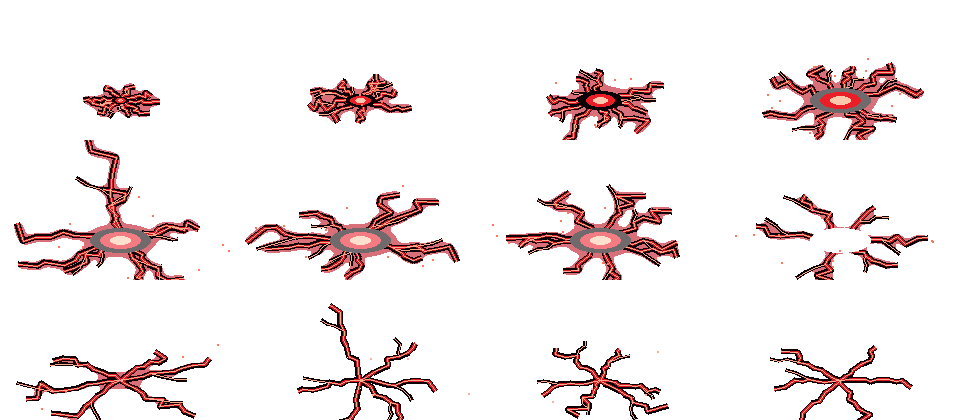
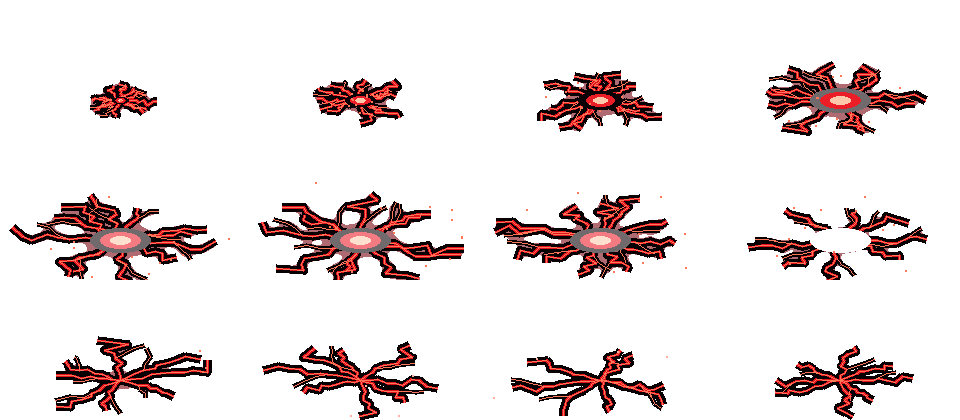
Sét cự kiếm tỏa phẳng đen đỏ; vành C theo góc đánh
Claude-Session: https://claude.ai/code/session_01MYwTvK6dULdzXHFPeBSgyd

diff --git a/game/index.html b/game/index.html
@@ -1912,14 +1912,14 @@ function startSwordCut(target,basic){
  P.swordCut={upgrade,angle,step,heavy,dir,lunge,delay,basic};
 }
 function comboFx(step,ang){/* VFX bản mẫu (PixelLab, gói tách lớp, tông trắng bạc - xanh ngọc). A, B nổ đúng khung trúng; C: lớp sau người + lớp trước người */
- if(!(P.kit&&P.kit.w==='kiem')||!vok('zs3'))return;const f=P.facing||1,sc=HERO.SC,an=HERO.meta.anims[['attack','attack2','attack3'][step]],at=(an&&an.dur?an.dur*an.hit:0.2);
+ if(!(P.kit&&P.kit.w==='kiem')||!vok('zs3'))return;const f=(ang!=null&&Math.abs(Math.cos(ang))>0.15)?(Math.cos(ang)>=0?1:-1):(P.facing||1)/* 24/11: hướng theo GÓC ĐÁNH, không theo P.facing cũ (mặt chưa kịp xoay khi mục tiêu ở phía đối diện) */,sc=HERO.SC,an=HERO.meta.anims[['attack','attack2','attack3'][step]],at=(an&&an.dur?an.dur*an.hit:0.2);
  const go=(k,T,gr,m,fd,o)=>fx(Object.assign({k:'sp',s:k,x:P.x,y:P.y,sc:sc*(m||1),fx:f,T,gr:gr?1:0,follow:1,fade:fd||0},o||{}));
  /* vệt A/B: nghiêng theo hướng chém (tối đa ±0,35 rad); A lật dọc để quét từ trên xuống cùng chiều lưỡi kiếm */
  const tilt=ang==null?0:clamp(Math.atan2(Math.sin(ang),Math.abs(Math.cos(ang))),-0.35,0.35)*f;
  /* Vệt chém: bộ Slashes (Frostwindz) đổi sang bảng màu game; khung lớn nhất của vệt trùng khung trúng */
  if(step===0)later(Math.max(0,at-0.02),()=>go(vok('wx_slash')?'wx_slash':'zs3',0.34,0,1.9,0.35,{dx:34*sc,dy:-62*sc,ang:tilt}),'h');
  else if(step===1)later(Math.max(0,at-0.16),()=>go('zs2',0.38,0,1.3,0,{ang:tilt}),'h');
- else{/* C = một cú quét → một elip → thu thế + mờ dần. Không còn slash zs1 độc lập; elip chỉ sống 0,5 s (tắt trước hết recovery 0,8 s), hai lớp cùng thời điểm và cùng thời gian *//* vành PixelLab dày (24/11): vệt chính phía trước, bản code ở dưới làm sợi mảnh + đuôi tím */later(Math.max(0,at-0.12),()=>{if(vok('k5c_pro'))go('k5c_pro',0.56,0,1.25,0.3,{dx:22*sc,dy:-48*sc})},'h')}}
+ else{/* C = một cú quét → một elip → thu thế + mờ dần. Không còn slash zs1 độc lập; elip chỉ sống 0,5 s (tắt trước hết recovery 0,8 s), hai lớp cùng thời điểm và cùng thời gian *//* vành PixelLab dày (24/11): vệt chính phía trước, bản code ở dưới làm sợi mảnh + đuôi tím */later(Math.max(0,at-0.12),()=>{if(vok('k5c_pro'))go('k5c_pro',0.56,0,1.25,0.3,{dx:22*sc,dy:(-48+(ang==null?0:Math.sin(ang)*26))*sc,ang:tilt*0.8})/* 24/11: vành C dời lên/xuống và nghiêng theo góc đánh như A/B */},'h')}}
 function finishSwordCut(dt){
  const cut=P.swordCut;
  if(!cut)return;
@@ -2088,7 +2088,7 @@ const WEAPONS={
      },null);
     /* đòn kết (24/11): sau khi các kiếm bay đi, một ĐẠI KIẾM (chính thanh đang cầm, phóng to) từ trời rơi xuống cuối làn, 0,55 s tới đất, choáng 0,35 s */
     later(2.75,()=>{let tx=x0+ca*260,ty=y0+sa*260;const es=enemiesIn(x0+ca*280,y0+sa*280,230).filter(e=>!e.dead);if(es.length){tx=es.reduce((s,e)=>s+e.x,0)/es.length;ty=es.reduce((s,e)=>s+e.y,0)/es.length}tx=clamp(tx,x0-560,x0+560);if(wartV&&WPN[wartV]&&WIMG[wartV]&&WIMG[wartV].complete)addZone({kind:'vkbig',T:1.7,src:'h',x:tx,y:ty,art:wartV});
-     later(0.55,()=>{for(const e of enemiesIn(tx,ty,150))hit(e,dmg*2.6,H({kb:140,stun:0.35}),tx,ty);G.shake=Math.max(G.shake||0,8);fx({k:'ring',x:tx,y:ty,r0:20,r1:150,c:'#ff4a3a',T:0.4});fx({k:'ring',x:tx,y:ty,r0:10,r1:96,c:'#3a0610',T:0.5});burst(tx,ty,'#ff5a46',14);burst(tx,ty,'#2a0a12',10);if(vok('set_len_do')){fx({k:'sp',s:'set_len_do',x:tx,y:ty+4,sc:1.35,T:0.75,al:1});later(0.14,()=>{fx({k:'sp',s:'set_len_do',x:tx,y:ty+4,sc:0.9,T:0.6,al:0.9})},null)}sfx('sword_hit',0.7,0.1)},null)},null);
+     later(0.55,()=>{for(const e of enemiesIn(tx,ty,150))hit(e,dmg*2.6,H({kb:140,stun:0.35}),tx,ty);G.shake=Math.max(G.shake||0,8);fx({k:'ring',x:tx,y:ty,r0:20,r1:150,c:'#ff4a3a',T:0.4});fx({k:'ring',x:tx,y:ty,r0:10,r1:96,c:'#3a0610',T:0.5});burst(tx,ty,'#ff5a46',14);burst(tx,ty,'#2a0a12',10);if(vok('set_no_do')){fx({k:'sp',s:'set_no_do',x:tx,y:ty+4,sc:1.7,T:0.75,al:1});later(0.14,()=>{fx({k:'sp',s:'set_no_do',x:tx,y:ty+4,sc:1.1,T:0.6,al:0.9})},null)}sfx('sword_hit',0.7,0.1)},null)},null);
     notice('Vạn Kiếm Quy Tông')}},
  ]},
  dao:{name:'Đao',g:'刀',role:'DPS diện rộng',tr:'Chém nặng, quét rộng, phá giáp',kit:[

diff --git a/cong_cu/claude/set_no.py b/cong_cu/claude/set_no.py
@@ -16,11 +16,11 @@ def frame(f):
     q=f/(N-1);grow=min(1,f/4.0);fade=1.0 if f<=6 else max(0,1-(f-6)/5.5)
     arcs=[]
     if fade>0:
-        n=9 if f<=6 else 6
+        n=12 if f<=6 else 8
         for i in range(n):
             ang=i*math.tau/n+rnd.uniform(-0.35,0.35)
             L=rnd.uniform(70,112)*(0.35+0.65*grow)*(0.8+0.2*fade)
-            main=arc(rnd,ang,L,flat=0.5 if rnd.random()<0.85 else 0.95)
+            main=arc(rnd,ang,L,flat=0.42)
             arcs.append((main,1.0))
             if len(main)>5 and rnd.random()<0.8:
                 k=rnd.randint(3,6);bx,by=main[k];ba=ang+rnd.choice([-1,1])*rnd.uniform(0.5,0.9)
@@ -33,11 +33,11 @@ def frame(f):
     ell=int(34*min(1,0.4+grow)*fade+2)
     gd.ellipse([CX-ell,CY-int(ell*0.45),CX+ell,CY+int(ell*0.45)],fill=200)
     glow=glow.filter(ImageFilter.GaussianBlur(3))
-    g=Image.new('RGBA',(W,H),(190,10,25,0));g.putalpha(glow.point(lambda v:int(min(255,v*0.55*fade))));im.alpha_composite(g)
+    g=Image.new('RGBA',(W,H),(120,4,16,0));g.putalpha(glow.point(lambda v:int(min(255,v*0.55*fade))));im.alpha_composite(g)
     d=ImageDraw.Draw(im)
-    for pl,s in arcs:d.line(pl,fill=(14,2,6,255),width=int(5*s)+1,joint='curve')
-    for pl,s in arcs:d.line(pl,fill=(215,24,34,255),width=max(1,int(3*s)),joint='curve')
-    for pl,s in arcs:d.line(pl,fill=(255,170,140,255),width=1,joint='curve')
+    for pl,s in arcs:d.line(pl,fill=(6,0,2,255),width=int(8*s)+1,joint='curve')
+    for pl,s in arcs:d.line(pl,fill=(225,18,28,255),width=max(1,int(3*s)),joint='curve')
+    for pl,s in arcs:d.line(pl,fill=(255,120,90,255),width=1,joint='curve')
     # chớp lõi tại tâm nổ
     if f<=7:
         a=int(255*(1-f/8.0));rx=int(8+22*min(1,f/3.0));ry=max(3,int(rx*0.42))

diff --git a/CLAUDE.md b/CLAUDE.md
@@ -258,3 +258,5 @@ Chủ game gửi ảnh sảnh iPhone ngang (~664×307, trong trình duyệt nên
 - (24/11 đêm) Cự kiếm Vạn Kiếm chạm đất: **sét đen pha đỏ** quanh mũi kiếm (`set_bolt_do.png` = đổi màu `set_bolt.png` bằng PIL, 1 tia lớn sc 2,3 + 8 tia sc 1,5 rải quanh trong 0,8 s), vòng xung kích đỏ + vòng đen, hạt đỏ/đen; bỏ 2 `hitFx` xanh ở điểm chạm. Ảnh: `nguon/tham_chieu/vankiem_daikiem_set_do.png`.
 - (24/11 đêm, SỬA hiểu nhầm) Cự kiếm chạm đất: chủ game muốn sét **NỔ TỎA ra từ chân mũi kiếm** (không phải tia giáng từ trên). Đã bỏ các tia `set_bolt_do` giáng xuống; thay bằng `set_no_do.png` (12 khung 240x140, tâm (120,100), `cong_cu/claude/set_no.py`, tự làm): tia sét gấp khúc bung mọi hướng ép dẹt theo mặt đất, viền đen thân đỏ lõi sáng, nổ 2 lớp (sc 1,6 rồi 1,05 trễ 0,14 s). Ảnh: `nguon/tham_chieu/vankiem_daikiem_no.png`. `set_bolt_do.png` còn trong thư mục nhưng không còn gọi.
 - (24/11 đêm, SỬA lần 3) Sét chân cự kiếm phải **trồi LÊN từ mặt đất** (không giáng xuống, không tỏa phẳng): `set_len_do.png` (12 khung 240x230, gốc nổ (120,208), `cong_cu/claude/set_len.py`, tự làm): tia đỏ viền đen bắn lên thành chùm quạt, thêm vài tia sát đất, chớp tròn dưới chân; 2 lớp (sc 1,35 rồi 0,9 trễ 0,14 s). `set_no_do`/`set_bolt_do` không còn gọi. Ảnh: `nguon/tham_chieu/vankiem_daikiem_len.png`.
+- (24/11 đêm, SỬA lần 4) Sét chân cự kiếm: chủ game chốt **tỏa phẳng quanh mặt đất, đen và đỏ, không nổ lên cao**. Dùng lại `set_no_do.png` dựng lại bằng `set_no.py` (12 tia, viền đen dày 8, thân đỏ 3, lõi cam, quầng đỏ sẫm; tất cả ép dẹt 0,42), nổ 2 lớp (sc 1,7 rồi 1,1). `set_len_do` không còn gọi. Ảnh: `nguon/tham_chieu/vankiem_daikiem_no2.png`.
+- (24/11 đêm) **Đòn C khi xoay mặt:** (1) `comboFx` lấy hướng vệt theo GÓC ĐÁNH thay vì `P.facing` cũ (mặt có thể chưa kịp xoay lúc dựng vệt); (2) vành C `k5c_pro` dời lên/xuống (±26 px theo sin góc) và nghiêng 0,8 lần tilt như A/B. Mô phỏng 4 hướng (`scratchpad/cface.js`, `cdir.js`): vành bám đúng người cả trái/phải/trên/dưới ở bản cũ lẫn mới; vệt xanh "lạc" xuống dưới ở khung cuối chỉ là đuôi vành. CHƯA tái hiện được lỗi chủ game thấy, cần video quay lại nếu còn lỗi. Ảnh: `nguon/tham_chieu/don_c_4_huong.png`.
